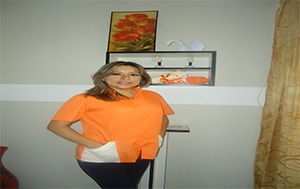
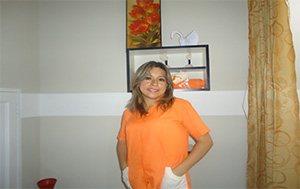
fotos editadas

diff --git a/WEB SITE/index-3.html b/WEB SITE/index-3.html
@@ -115,27 +115,63 @@
               <figure class="img-rounded"><a  class="view magnifier" data-fancybox-group="gallery" href="images/9a.png" title=""><img src="images/9.jpg" alt="" /><span></span></a> </figure>   
               <figure class="img-rounded"><a  class="view magnifier" data-fancybox-group="gallery" href="images/10a.png" title=""><img src="images/10.jpg" alt="" /><span></span></a> </figure>              
               </li>
-              <!--
-              <li>                    
-              <figure class="img-rounded"><a  class="view magnifier" data-fancybox-group="gallery" href="images/page4-img1.jpg" title=""><img src="images/page4-img1.jpg" alt="" /><span></span></a> </figure>   
-              <figure class="img-rounded"><a  class="view magnifier" data-fancybox-group="gallery" href="images/page4-img1.jpg" title=""><img src="images/page4-img4.jpg" alt="" /><span></span></a></figure>  
+<li>             
+              <figure class="img-rounded"><a  class="view magnifier" data-fancybox-group="gallery" href="images/11a.png" title=""><img src="images/11.jpg" alt="" /><span></span></a> </figure>   
+              <figure class="img-rounded"><a  class="view magnifier" data-fancybox-group="gallery" href="images/12a.png" title=""><img src="images/12.jpg" alt="" /><span></span></a> </figure>              
               </li>
-              
-              <li>             
-              <figure class="img-rounded"><a  class="view magnifier" data-fancybox-group="gallery" href="images/image-blank.png" title=""><img src="images/page4-img2.jpg" alt="" /><span></span></a> </figure>   
-              <figure class="img-rounded"><a  class="view magnifier" data-fancybox-group="gallery" href="images/image-blank.png" title=""><img src="images/page4-img5.jpg" alt="" /><span></span></a> </figure>  
-              </li> 
-              
-              <li>             
-              <figure class="img-rounded"><a  class="view magnifier" data-fancybox-group="gallery" href="images/image-blank.png" title=""><img src="images/page4-img3.jpg" alt="" /><span></span></a> </figure>   
-              <figure class="img-rounded"><a  class="view magnifier" data-fancybox-group="gallery" href="images/image-blank.png" title=""><img src="images/page4-img6.jpg" alt="" /><span></span></a> </figure>  
-              </li> 
-             <li>                    
-              <figure class="img-rounded"><a  class="view magnifier" data-fancybox-group="gallery" href="images/image-blank.png" title=""><img src="images/page4-img1.jpg" alt="" /><span></span></a> </figure>   
-              <figure class="img-rounded"><a  class="view magnifier" data-fancybox-group="gallery" href="images/image-blank.png" title=""><img src="images/page4-img4.jpg" alt="" /><span></span> </a></figure>  
-              </li>-->
-              
-              
+
+<li>             
+              <figure class="img-rounded"><a  class="view magnifier" data-fancybox-group="gallery" href="images/13a.png" title=""><img src="images/13.jpg" alt="" /><span></span></a> </figure>   
+              <figure class="img-rounded"><a  class="view magnifier" data-fancybox-group="gallery" href="images/14a.png" title=""><img src="images/14.jpg" alt="" /><span></span></a> </figure>              
+              </li>
+
+<li>             
+              <figure class="img-rounded"><a  class="view magnifier" data-fancybox-group="gallery" href="images/15a.png" title=""><img src="images/15.jpg" alt="" /><span></span></a> </figure>   
+              <figure class="img-rounded"><a  class="view magnifier" data-fancybox-group="gallery" href="images/16a.png" title=""><img src="images/16.jpg" alt="" /><span></span></a> </figure>              
+              </li>
+<li>             
+              <figure class="img-rounded"><a  class="view magnifier" data-fancybox-group="gallery" href="images/17a.png" title=""><img src="images/17.jpg" alt="" /><span></span></a> </figure>   
+              <figure class="img-rounded"><a  class="view magnifier" data-fancybox-group="gallery" href="images/18a.png" title=""><img src="images/18.jpg" alt="" /><span></span></a> </figure>              
+              </li>
+<li>             
+              <figure class="img-rounded"><a  class="view magnifier" data-fancybox-group="gallery" href="images/19a.png" title=""><img src="images/19.jpg" alt="" /><span></span></a> </figure>   
+              <figure class="img-rounded"><a  class="view magnifier" data-fancybox-group="gallery" href="images/20a.png" title=""><img src="images/20.jpg" alt="" /><span></span></a> </figure>              
+              </li>
+<li>             
+              <figure class="img-rounded"><a  class="view magnifier" data-fancybox-group="gallery" href="images/21a.png" title=""><img src="images/21.jpg" alt="" /><span></span></a> </figure>   
+              <figure class="img-rounded"><a  class="view magnifier" data-fancybox-group="gallery" href="images/22a.png" title=""><img src="images/22.jpg" alt="" /><span></span></a> </figure>              
+              </li>
+<li>             
+              <figure class="img-rounded"><a  class="view magnifier" data-fancybox-group="gallery" href="images/23a.png" title=""><img src="images/23.jpg" alt="" /><span></span></a> </figure>   
+              <figure class="img-rounded"><a  class="view magnifier" data-fancybox-group="gallery" href="images/24a.png" title=""><img src="images/24.jpg" alt="" /><span></span></a> </figure>              
+              </li>
+<li>             
+              <figure class="img-rounded"><a  class="view magnifier" data-fancybox-group="gallery" href="images/25a.png" title=""><img src="images/25.jpg" alt="" /><span></span></a> </figure>   
+              <figure class="img-rounded"><a  class="view magnifier" data-fancybox-group="gallery" href="images/26a.png" title=""><img src="images/26.jpg" alt="" /><span></span></a> </figure>              
+              </li>
+<li>             
+              <figure class="img-rounded"><a  class="view magnifier" data-fancybox-group="gallery" href="images/27a.png" title=""><img src="images/27.jpg" alt="" /><span></span></a> </figure>   
+              <figure class="img-rounded"><a  class="view magnifier" data-fancybox-group="gallery" href="images/28a.png" title=""><img src="images/28.jpg" alt="" /><span></span></a> </figure>              
+              </li>
+<li>             
+              <figure class="img-rounded"><a  class="view magnifier" data-fancybox-group="gallery" href="images/29a.png" title=""><img src="images/29.jpg" alt="" /><span></span></a> </figure>   
+              <figure class="img-rounded"><a  class="view magnifier" data-fancybox-group="gallery" href="images/30a.png" title=""><img src="images/30.jpg" alt="" /><span></span></a> </figure>              
+              </li>
+<li>             
+              <figure class="img-rounded"><a  class="view magnifier" data-fancybox-group="gallery" href="images/31a.png" title=""><img src="images/31.jpg" alt="" /><span></span></a> </figure>   
+              <figure class="img-rounded"><a  class="view magnifier" data-fancybox-group="gallery" href="images/32a.png" title=""><img src="images/32.jpg" alt="" /><span></span></a> </figure>              
+              </li>
+<li>             
+              <figure class="img-rounded"><a  class="view magnifier" data-fancybox-group="gallery" href="images/33a.png" title=""><img src="images/33.jpg" alt="" /><span></span></a> </figure>   
+              <figure class="img-rounded"><a  class="view magnifier" data-fancybox-group="gallery" href="images/34a.png" title=""><img src="images/34.jpg" alt="" /><span></span></a> </figure>              
+              </li>
+<li>             
+              <figure class="img-rounded"><a  class="view magnifier" data-fancybox-group="gallery" href="images/35a.png" title=""><img src="images/35.jpg" alt="" /><span></span></a> </figure>   
+              <figure class="img-rounded"><a  class="view magnifier" data-fancybox-group="gallery" href="images/36a.png" title=""><img src="images/36.jpg" alt="" /><span></span></a> </figure>              
+              </li>
+<li>             
+              <figure class="img-rounded"><a  class="view magnifier" data-fancybox-group="gallery" href="images/37a.png" title=""><img src="images/37.jpg" alt="" /><span></span></a> </figure>   
+              <figure class="img-rounded"><a  class="view magnifier" data-fancybox-group="gallery" href="images/1a.png" title=""><img src="images/1.jpg" alt="" /><span></span></a> </figure>                                                       
             </ul>
           </div>
         </div>
